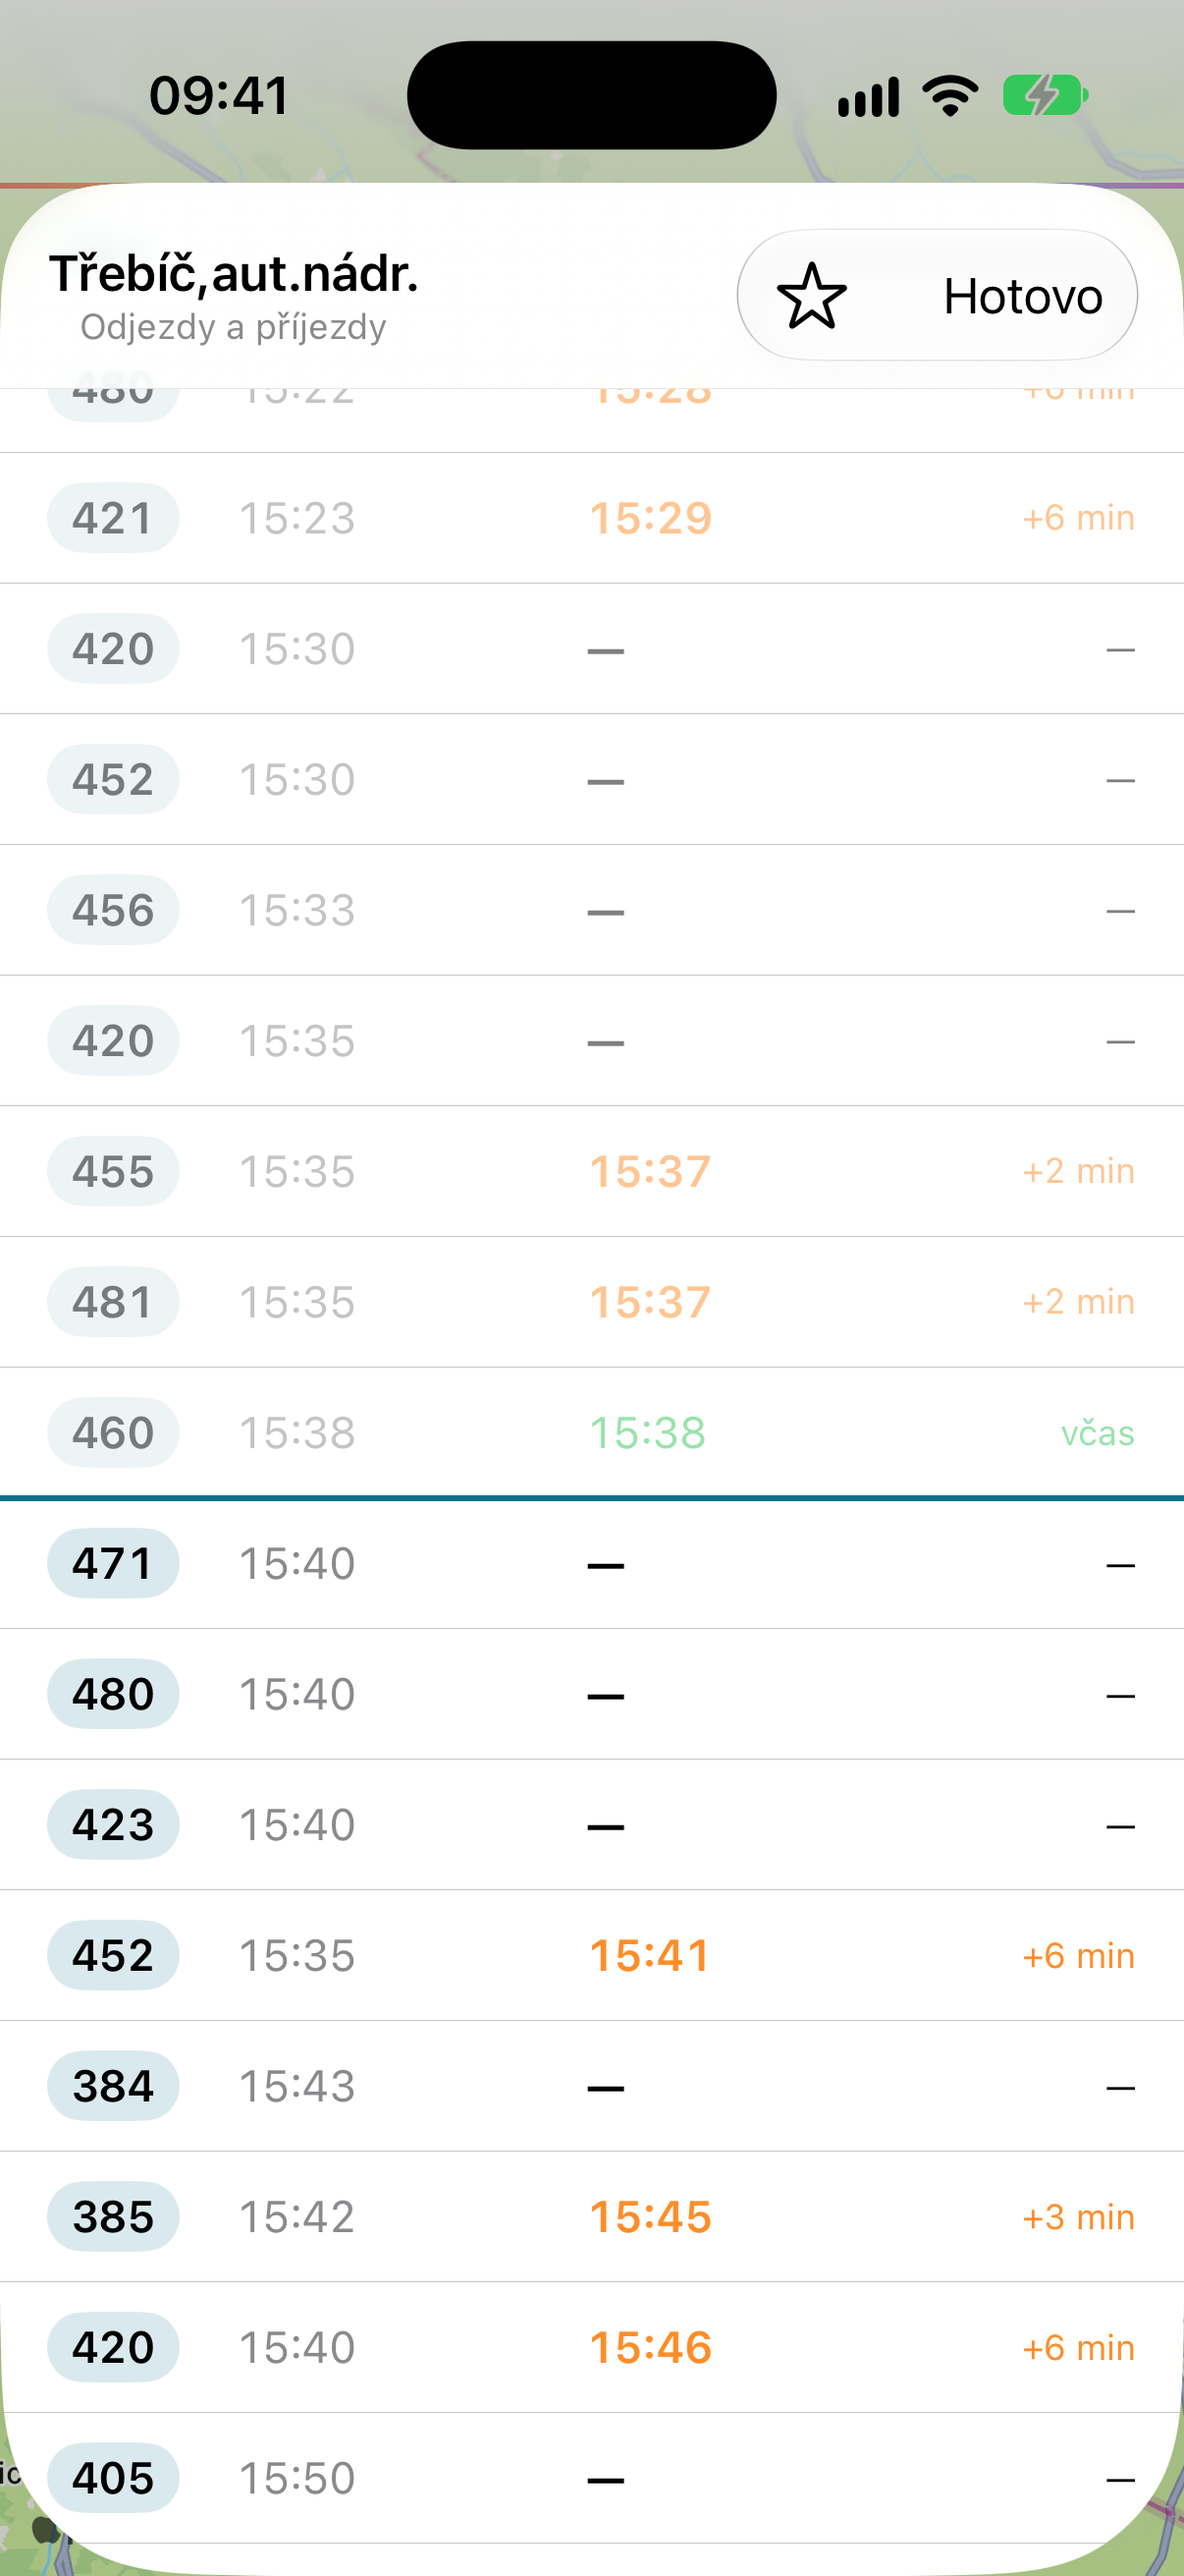
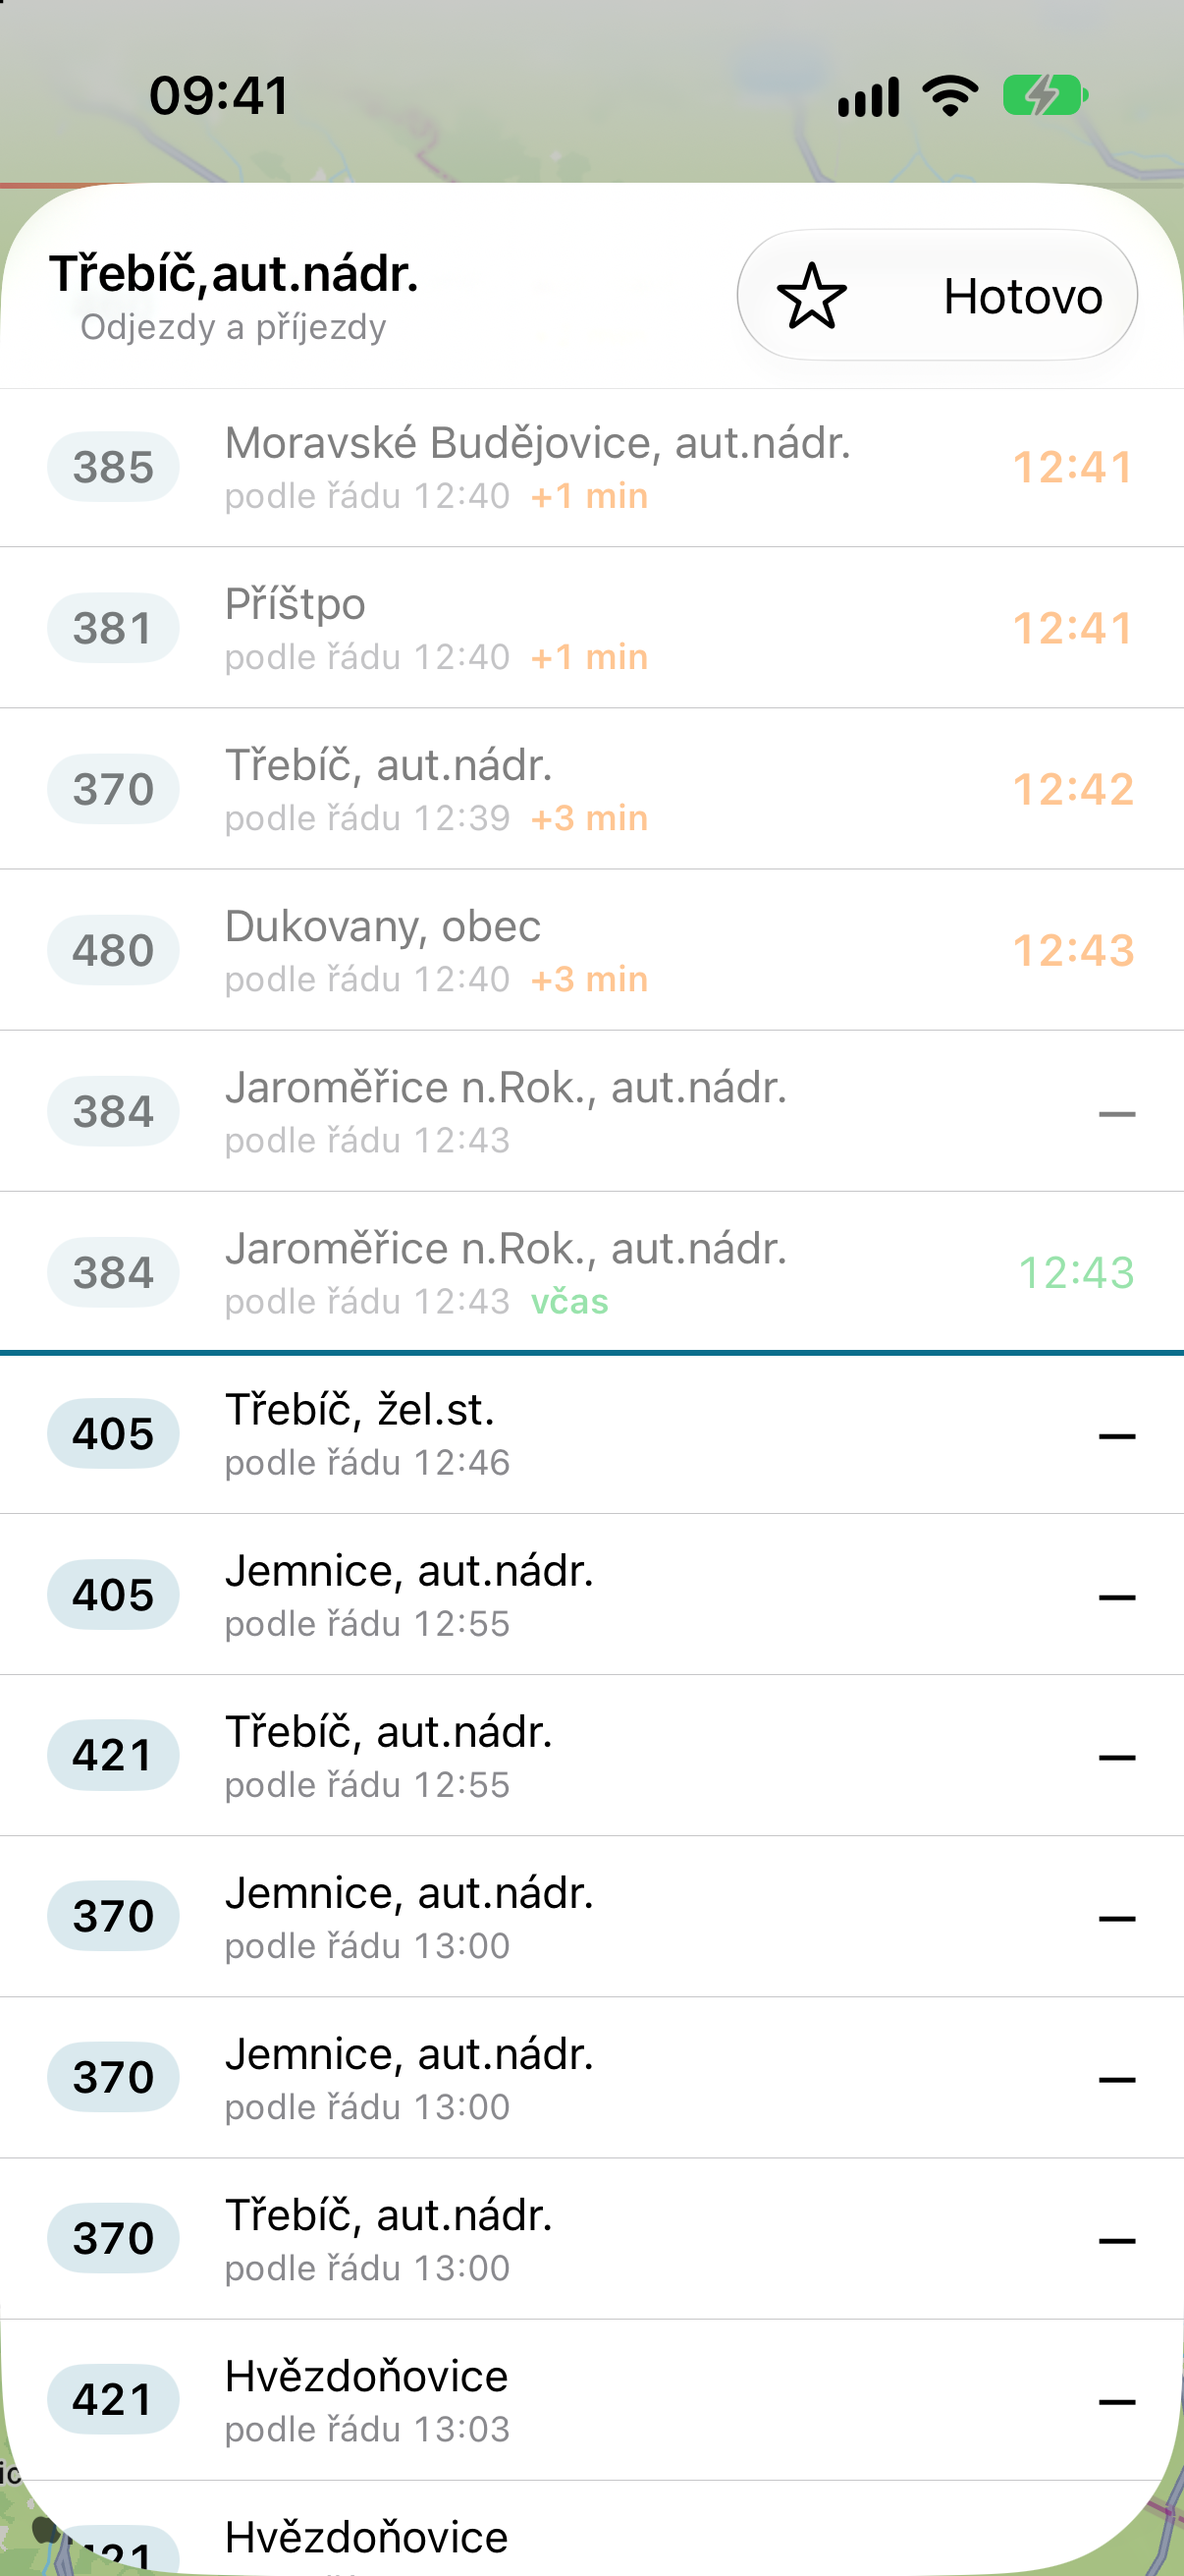
Say where each departure is going (#129)
* Point the App Store button at the published app

The app is live: "VDV Live", 1.0, free, by Ondrej Linek, and available
in the Czech storefront as well as everywhere else. The hero button is
now a real link to https://apps.apple.com/app/id6824945928, which Apple
resolves to the visitor's own storefront.

APP_STORE_LIVE was built for exactly this: the shape, wording and place
of the button were settled while the app was in review, so publishing
it is one line and a deploy.

* Say where each departure is going

The board listed lines and times and left out the only thing that
distinguishes two buses of the same line: their destination. A
passenger at Trebic could see that 370 leaves at 12:42 and still not
know whether it is the one they want.

Each row now carries the last stop of its own run, which is the
destination a passenger reads - not the line's route name, which names
the whole corridor and both directions of it. A run that ends where the
board is read (the 370) says so, which is itself useful: it is the
terminus.

The line and its destination lead; the timetable's time and the delay
sit under them, and the expected time keeps the right-hand column it
had. VoiceOver reads the destination too.

The App Store screenshot of the board is recaptured from this build.

539 tests, one new for the destination.

---------

diff --git a/VdvLive/Features/Map/StopBoardSheet.swift b/VdvLive/Features/Map/StopBoardSheet.swift
@@ -161,11 +161,10 @@ struct StopBoardSheet: View {
     }
 
     private var header: some View {
-        HStack(spacing: 0) {
-            Text("Line").frame(width: 64, alignment: .leading)
-            Text("Scheduled").frame(maxWidth: .infinity, alignment: .leading)
-            Text("Expected").frame(maxWidth: .infinity, alignment: .leading)
-            Text("Delay").frame(width: 84, alignment: .trailing)
+        HStack(spacing: 8) {
+            Text("Line").frame(width: 52, alignment: .leading)
+            Text("Destination").frame(maxWidth: .infinity, alignment: .leading)
+            Text("Expected").frame(width: 76, alignment: .trailing)
         }
         .font(.caption.weight(.semibold))
         .foregroundStyle(.secondary)
@@ -178,29 +177,42 @@ struct StopBoardSheet: View {
         let readAt = entry.expected ?? entry.scheduled
         let isPast = readAt < now
 
-        return HStack(spacing: 0) {
+        return HStack(spacing: 8) {
             Text(LineCode(raw: entry.lineNumber).number)
                 .font(.subheadline.weight(.semibold).monospacedDigit())
                 .padding(.horizontal, 8)
                 .padding(.vertical, 3)
                 .background(Color.accentColor.opacity(0.15), in: Capsule())
-                .frame(width: 64, alignment: .leading)
+                .frame(width: 52, alignment: .leading)
 
-            Text(entry.scheduled.text)
-                .font(.subheadline.monospacedDigit())
-                .foregroundStyle(.secondary)
-                .frame(maxWidth: .infinity, alignment: .leading)
+            // The destination leads, because it is the question a board answers:
+            // which bus, going where. The timetable's own time and the delay follow
+            // underneath, where they are read second.
+            VStack(alignment: .leading, spacing: 2) {
+                Text(entry.destination.map(displayName) ?? String(localized: "Destination not in the timetable"))
+                    .font(.subheadline)
+                    .lineLimit(1)
+                    .truncationMode(.tail)
+                    .foregroundStyle(entry.destination == nil ? Color.secondary : Color.primary)
+
+                HStack(spacing: 6) {
+                    Text(String(format: String(localized: "scheduled %@"), entry.scheduled.text))
+                        .font(.caption.monospacedDigit())
+                        .foregroundStyle(.secondary)
+
+                    if entry.delayMinutes != nil {
+                        Text(delayText(entry))
+                            .font(.caption.monospacedDigit().weight(.semibold))
+                            .foregroundStyle(expectedColour(entry))
+                    }
+                }
+            }
+            .frame(maxWidth: .infinity, alignment: .leading)
 
             Text(entry.expected?.text ?? "—")
                 .font(.subheadline.monospacedDigit().weight(entry.isOnTime ? .regular : .semibold))
                 .foregroundStyle(expectedColour(entry))
-                .frame(maxWidth: .infinity, alignment: .leading)
-
-            Text(delayText(entry))
-                .font(.caption.monospacedDigit())
-                .foregroundStyle(expectedColour(entry))
-                .frame(width: 68, alignment: .trailing)
-
+                .frame(width: 76, alignment: .trailing)
         }
         .padding(.horizontal, 16)
         .padding(.vertical, 10)
@@ -215,9 +227,17 @@ struct StopBoardSheet: View {
         let line = LineCode(raw: entry.lineNumber).number
         let expected = entry.expected.map { String(localized: "expected \($0.text)") }
             ?? String(localized: "not departed yet")
+        let to = entry.destination.map { String(format: String(localized: "to %@"), displayName($0)) }
+            ?? String(localized: "destination unknown")
         return String(
-            localized: "Line \(line), scheduled \(entry.scheduled.text), \(expected), \(delayText(entry))"
+            localized: "Line \(line), \(to), scheduled \(entry.scheduled.text), \(expected), \(delayText(entry))"
         )
+    }
+
+    /// The archive writes "Zašovice,Nová Brtnice"; a person reads a space after the
+    /// comma.
+    private func displayName(_ stop: String) -> String {
+        stop.replacingOccurrences(of: ",", with: ", ")
     }
 
     private func expectedColour(_ entry: StopBoardEntry) -> Color {

diff --git a/VdvLive/Domain/StopBoard.swift b/VdvLive/Domain/StopBoard.swift
@@ -15,6 +15,12 @@ struct StopBoardEntry: Identifiable, Hashable, Sendable {
     let scheduled: TimeOfDay
     /// What the live feed makes of it, when a vehicle of this run is reporting.
     let expected: TimeOfDay?
+    /// Where this run ends, which is what a passenger reads a board for.
+    ///
+    /// The last stop of the run, not the line's route name: two runs of one line can
+    /// go opposite ways, and "Třešť-Brtnice-Okříšky-Radonín" tells nobody which end
+    /// the bus in front of them is heading for.
+    let destination: String?
 
     var id: String { "\(lineNumber)/\(serviceNumber)/\(scheduled.minutes)" }
 
@@ -78,6 +84,7 @@ enum StopBoard {
                         serviceNumber: run.serviceNumber,
                         scheduled: scheduled,
                         call: call,
+                        destination: run.calls.last?.stopName,
                         isUnderWay: Self.isUnderWay(run, at: now),
                         // Only a delay the feed reports for this very run is this row's
                         // own business.
@@ -151,6 +158,7 @@ enum StopBoard {
         let serviceNumber: String
         let scheduled: TimeOfDay
         let call: ScheduledCall
+        let destination: String?
         let isUnderWay: Bool
         var delay: Int?
 
@@ -161,7 +169,8 @@ enum StopBoard {
             StopBoardEntry(lineNumber: lineNumber,
                            serviceNumber: serviceNumber,
                            scheduled: scheduled,
-                           expected: expected)
+                           expected: expected,
+                           destination: destination)
         }
     }
 

diff --git a/VdvLiveTests/StopBoardTests.swift b/VdvLiveTests/StopBoardTests.swift
@@ -206,6 +206,32 @@ final class StopBoardTests: XCTestCase {
         XCTAssertTrue(board.isEmpty, "12:00 with no delay of its own is outside the hour")
     }
 
+    /// A board says where the bus is going, not just which line it is. Two runs of
+    /// one line can end in different places, and that difference is the whole reason
+    /// a passenger reads the board.
+    func testARowCarriesTheDestinationOfItsRun() {
+        let timetable = LineTimetable(
+            lineNumber: "764410",
+            displayNumber: "410",
+            routeName: "Třešť-Brtnice-Okříšky-Radonín",
+            operatorName: nil,
+            runs: [
+                ScheduledRun(serviceNumber: "1", calls: [
+                    call(1, departing: 15 * 60 + 5),
+                    call(2, at: "Telč,aut.nádr.", departing: 15 * 60 + 40)
+                ]),
+                ScheduledRun(serviceNumber: "2", calls: [
+                    call(1, departing: 15 * 60 + 20),
+                    call(2, at: "Třešť,nám.", departing: 15 * 60 + 55)
+                ])
+            ]
+        )
+
+        let board = StopBoard.entries(at: stop, in: [timetable], now: TimeOfDay(minutes: 15 * 60))
+
+        XCTAssertEqual(board.map(\.destination), ["Telč,aut.nádr.", "Třešť,nám."])
+    }
+
     /// The board opens where the reader is standing, so the clock has to be readable
     /// off the device's own time zone.
     func testReadsTheClockOffADate() throws {

diff --git a/tools/build-site.py b/tools/build-site.py
@@ -22,11 +22,11 @@ ROOT = pathlib.Path(__file__).resolve().parent.parent
 
 ACCENT = "#0f9b8e"
 
-# The App Store record. `APP_STORE_LIVE` is the one line to change when the app is
-# released: while it is False the button is drawn but does not link anywhere, because
-# a link to an app that is not published answers 404 and looks like a broken site.
+# The App Store record. The app went live on 29 October 2026, so the hero button is a
+# real link. Set `APP_STORE_LIVE` back to False only if the app is ever withdrawn:
+# a link to an unpublished app answers 404 and looks like a broken site.
 APP_STORE_ID = "6824945928"
-APP_STORE_LIVE = False
+APP_STORE_LIVE = True
 APP_STORE_URL = f"https://apps.apple.com/app/id{APP_STORE_ID}"
 
 

diff --git a/tools/add-stop-board-strings.py b/tools/add-stop-board-strings.py
@@ -100,6 +100,11 @@ TRANSLATIONS = {
     "Line %@ · service %@": "Linka %@ · spoj %@",
     "%@ from %@": "%@ ze zastávky %@",
     "service %@": "spoj %@",
+    "Destination": "Cíl",
+    "Destination not in the timetable": "Cíl není v jízdním řádu",
+    "scheduled %@": "podle řádu %@",
+    "to %@": "do %@",
+    "destination unknown": "cíl neznámý",
     "Search": "Hledat",
     "Lines": "Linky",
     "Lines in the archive": "Linek v archivu",
